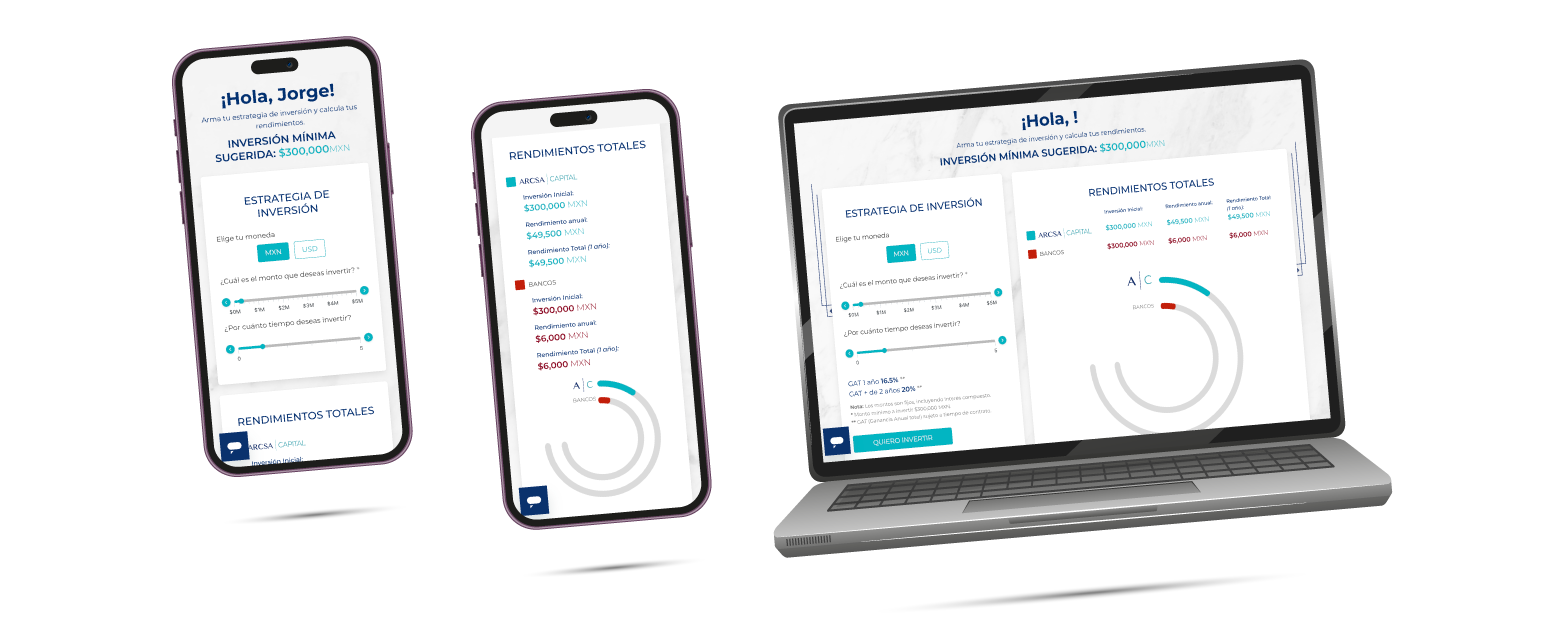
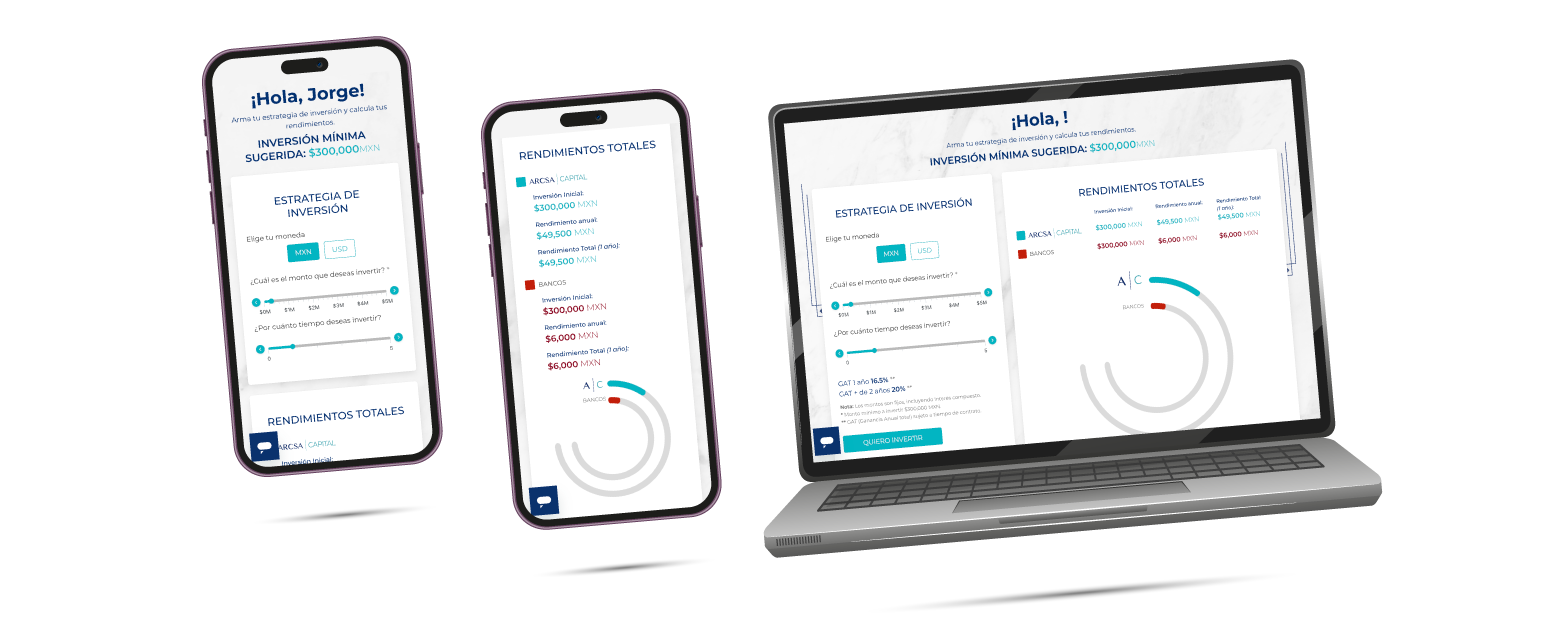
Cambio img
Change img

diff --git a/dev/portafolio/styles.css b/dev/portafolio/styles.css
@@ -167,7 +167,7 @@ button {
 }
 
 .parallax-section-1 .parallax-image {
-    left: -70%;
+    left: -60%;
 }
 
 .parallax-section-2 {
